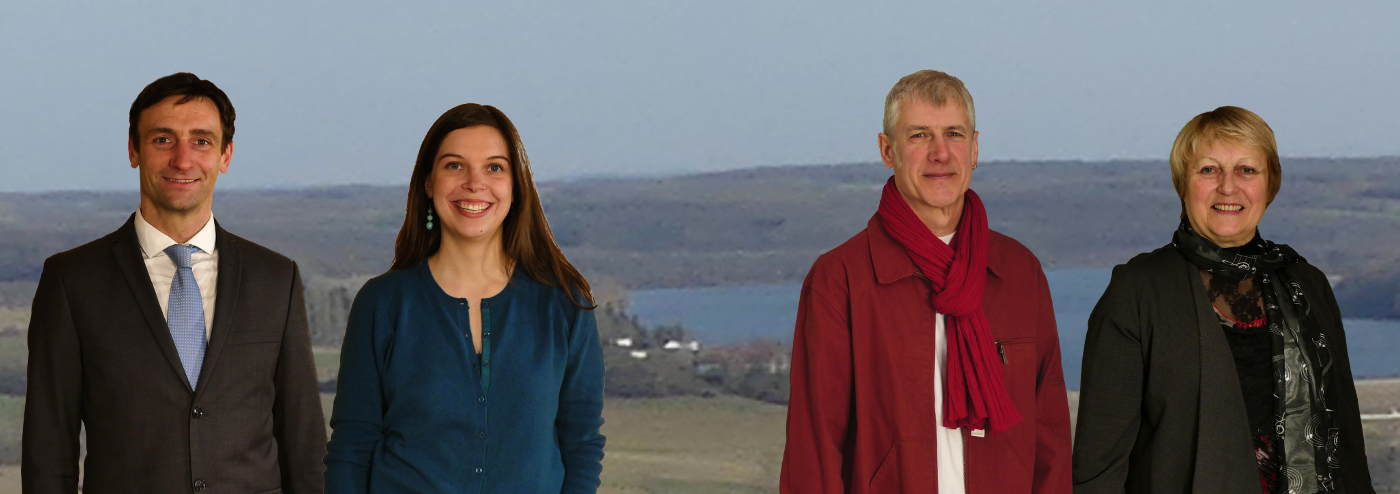
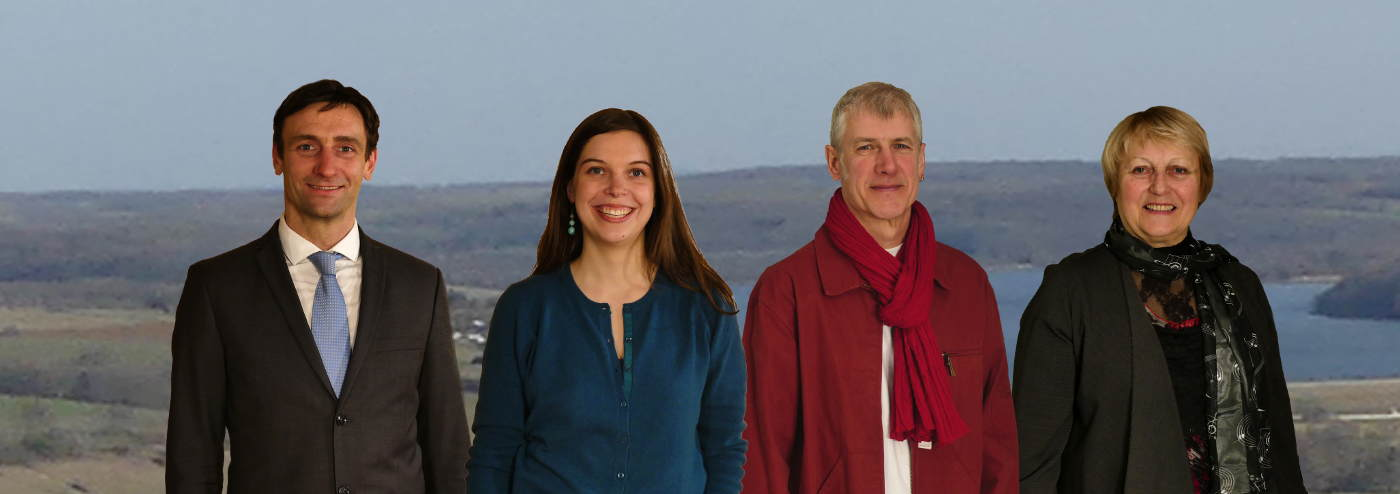
index edit + pictures

diff --git a/pages/index.html b/pages/index.html
@@ -8,10 +8,10 @@ permalink: /
 
       <div class="row">
         <div class="col-sm-12">
-          <figure class="thumbnail ">
-            <img src="/img/team-i52-1.jpg" alt="Marche pour la Sixième République - 18 mars 2017" class="img-responsive">
+          <figure class="thumbnail presentor">
+            <img src="/img/team-i52-2.jpg" alt="Marche pour la Sixième République - 18 mars 2017" class="img-responsive">
             <div class="caption">
-              <h2>Nous sommes pour l'Avenir en commun !</h2>
+              <h1>Nous sommes la Haute-Marne Insoumise !</h1>
             </div>
           </figure>
         </div>
@@ -38,14 +38,13 @@ permalink: /
         <div class="{{ site.main_row_class }}">
           <figure class="thumbnail ">
             <div class="caption">
-              <h2>Soutenez <br>la France Insoumise</h2>
+              <h2>Soutenez la France Insoumise</h2>
             </div>
             <img src="/img/foule-insoumis-bastille-18-mars-2017-w600.jpg" alt="Marche pour la Sixième République - 18 mars 2017" class="img-responsive">
             <div class="caption">
               <p>Soutenez Jean-Luc Mélenchon, le candidat de la France Insoumise à l'élection présidentielle 2017 !</p>
-              <p><a class="btn btn-primary" href="https://avenirencommun.fr/" role="button">Visitez le site de l'Avenir en commun <span class="more-arrow">&rtrif;</span></a></p>
-              <p><a class="btn btn-success" href="https://laec.fr/" role="button">Consultez la version électronique <span class="more-arrow">&rtrif;</span></a></p>
-            </div>
+              <p><a class="btn btn-info" href="https://jlm2017.fr/" role="button">Visitez le site JLM2017 <span class="more-arrow">&rtrif;</span></a></p>
+             </div>
           </figure>
         </div>
       </div>
@@ -54,11 +53,11 @@ permalink: /
         <div class="col-md-12">
           <figure class="thumbnail ">
             <div class="caption">
-              <h2>Nos Candidats <br>pour les législatives 2017</h2>
+              <h2>Nos Candidats pour les législatives 2017</h2>
             </div>
             <img src="/img/candidats/candidats-52-all_w1400.jpg" alt="Ariane Walasek et Daniel Monnier - Candidats Insoumis aux législatives 2017 pour les 1ère et 2ème circonscriptions de Haute-Marne" class="img-responsive">
             <div class="caption">
-              <p>Donec id elit non mi porta gravida at eget metus. Fusce dapibus, tellus ac cursus commodo, tortor mauris condimentum nibh, ut fermentum massa justo sit amet risus. Etiam porta sem malesuada magna mollis euismod. Donec sed odio dui. </p>
+              <p>Faite connaissance avec nos candidats aux élections législatives 2017.</p>
 
               <p><a class="btn btn-primary" href="#" role="button">Portraits <span class="more-arrow">&rtrif;</span></a></p>
             </div>
